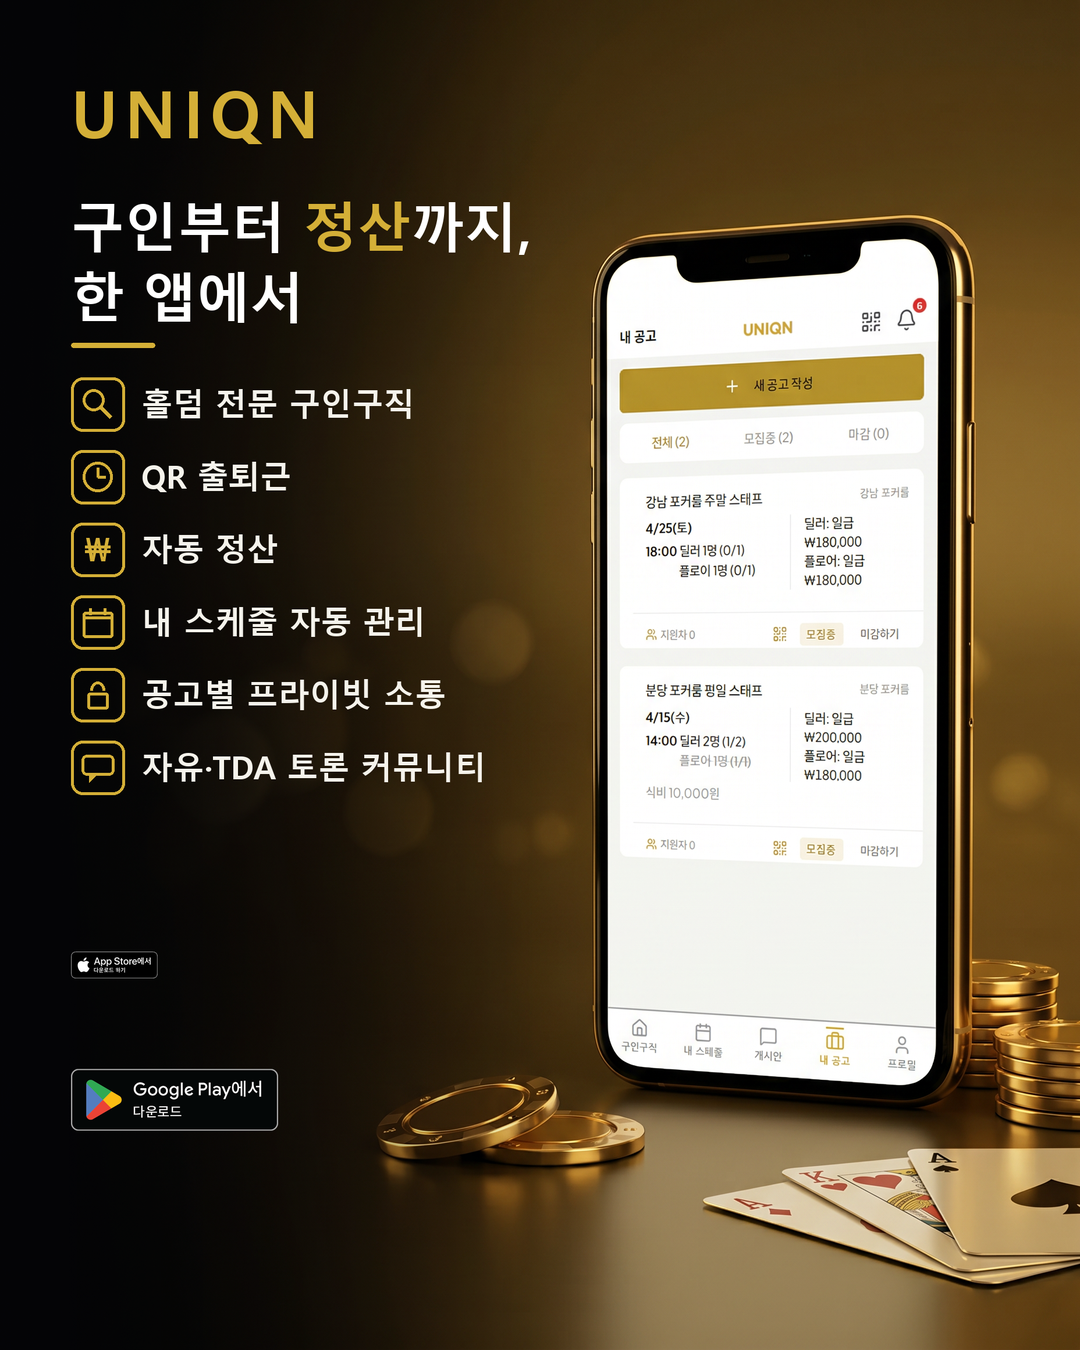
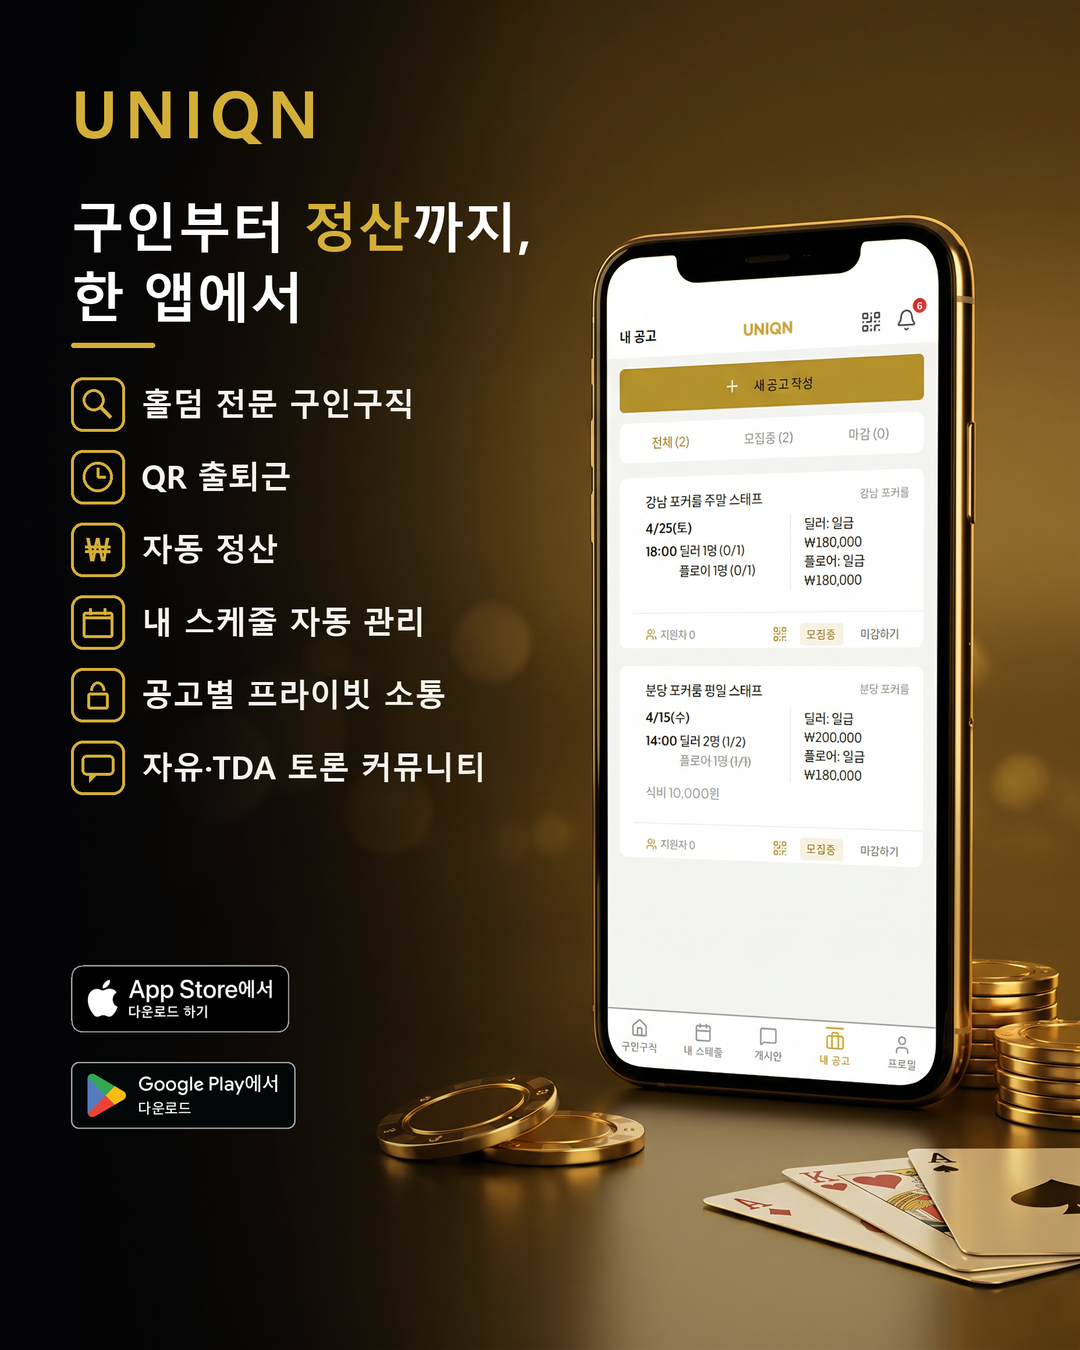
fix(marketing): 스토어 뱃지 크기 정합 — 투명 여백 트림 후 동일 높이 정규화
Apple PNG가 좌상단 346x106에만 내용이 있어 작게 박히던 문제 → getbbox 트림 후 BH 통일. 두 뱃지 좌측 정렬·동일 높이.

Changed region(s): [[0.0611, 0.6844, 0.275, 0.84]]

diff --git a/marketing/uniqn-campaign/sample-01/compose_overlay.py b/marketing/uniqn-campaign/sample-01/compose_overlay.py
@@ -115,17 +115,21 @@ for kind, label in items:
     y += S + int(H * 0.014)
 
 # 6) 스토어 뱃지 (좌하단, 세로 스택: 애플 → 구글)
+#    각 PNG의 투명 여백을 트림한 뒤 동일 높이로 정규화 → 크기 일치
 def paste_badge(path, x, y, target_h):
     b = Image.open(path).convert("RGBA")
+    bb = b.getbbox()
+    if bb:
+        b = b.crop(bb)
     w = int(b.width * target_h / b.height)
     b = b.resize((w, target_h), Image.LANCZOS)
     base.alpha_composite(b, (x, y))
     return w
 
-BH = int(H * 0.060)
-y_b = int(H * 0.705)
+BH = int(H * 0.050)        # pill 높이 (트림 후 기준)
+y_b = int(H * 0.715)
 paste_badge(APPLE, LX, y_b, BH)
-paste_badge(GOOGLE, LX, y_b + BH + int(H * 0.020), BH)
+paste_badge(GOOGLE, LX, y_b + BH + int(H * 0.022), BH)
 
 out = base.convert("RGB")
 out.save(FINAL_HI)
